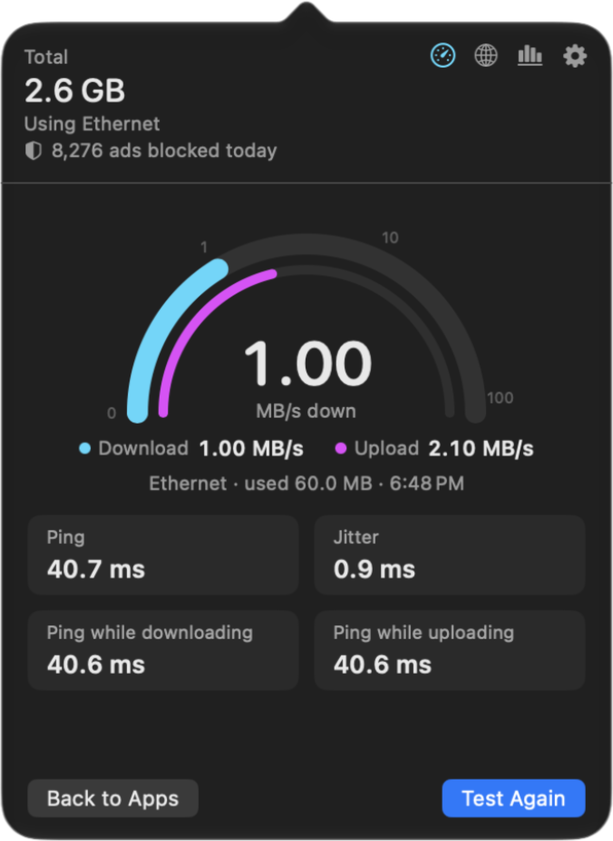
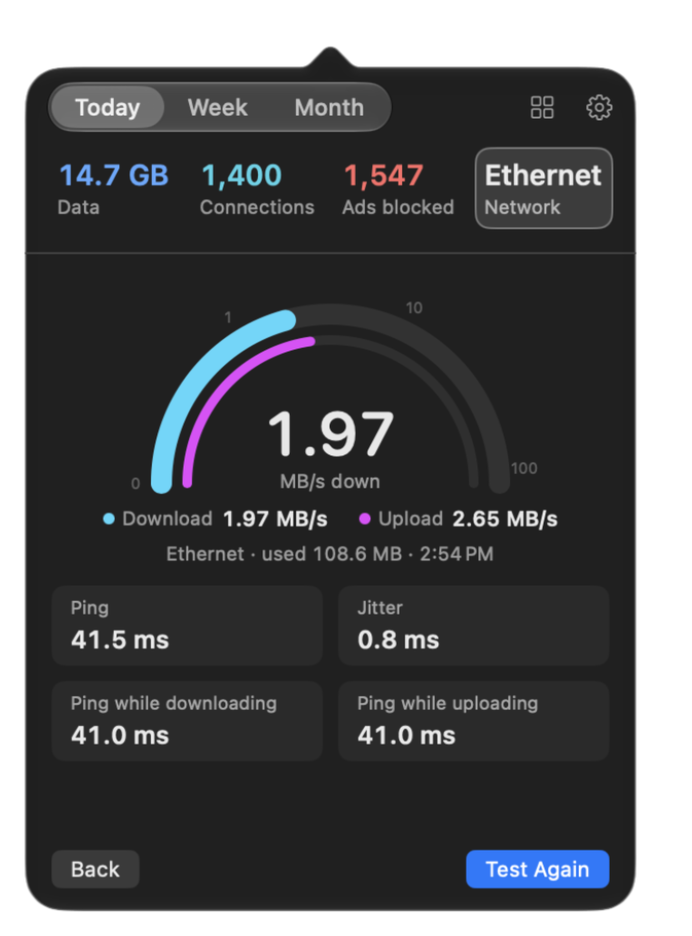
The README's demo and speed test pictures, remade in English and Chinese (#432)
The demo GIF shows the new popover in each language; the speed test
picture is retaken in English (the Chinese one follows from the site's
pictures after release).

diff --git a/README.zh-Hans.md b/README.zh-Hans.md
@@ -25,8 +25,8 @@
 </p>
 
 <p align="center">
-  <img src="Resources/README/demo.gif" width="404"
-       alt="下载过程中的真实应用：菜单栏显示下载速度约 1.1 MB/s，点按后打开弹出窗口，显示当天的总计、正在使用的连接和今天的拦截次数，下面是按流量排序的应用列表。随后 Warp 展开，显示它启动的进程，其中 curl 下载的流量不断增加。">
+  <img src="Resources/README/zh-Hans/demo.gif" width="404"
+       alt="下载过程中的真实应用：点按菜单栏读数后打开弹出窗口，顶部是今天、周和月，下面是数据、连接、已拦截和网络，再下面是按流量排序的应用列表。随后 Warp 展开，显示它启动的进程，其中 curl 下载的流量不断增加。">
 </p>
 
 ## ✨ 功能

diff --git a/README.md b/README.md
@@ -26,7 +26,7 @@
 
 <p align="center">
   <img src="Resources/README/demo.gif" width="404"
-       alt="The real app during a download: the menu bar reads about 1.1 MB/s down, and a click opens the popover with the day's total, the connection in use and the ads blocked today, over a list of apps by data used. Warp opens to show the processes it started, its curl download climbing.">
+       alt="The real app during a download: a click on the menu bar readout opens the popover, with Today, Week and Month at the top, then Data, Connections, Ads blocked and Network, over the apps by data used. Warp opens to show the processes it started, its curl download climbing.">
 </p>
 
 ## ✨ Features
